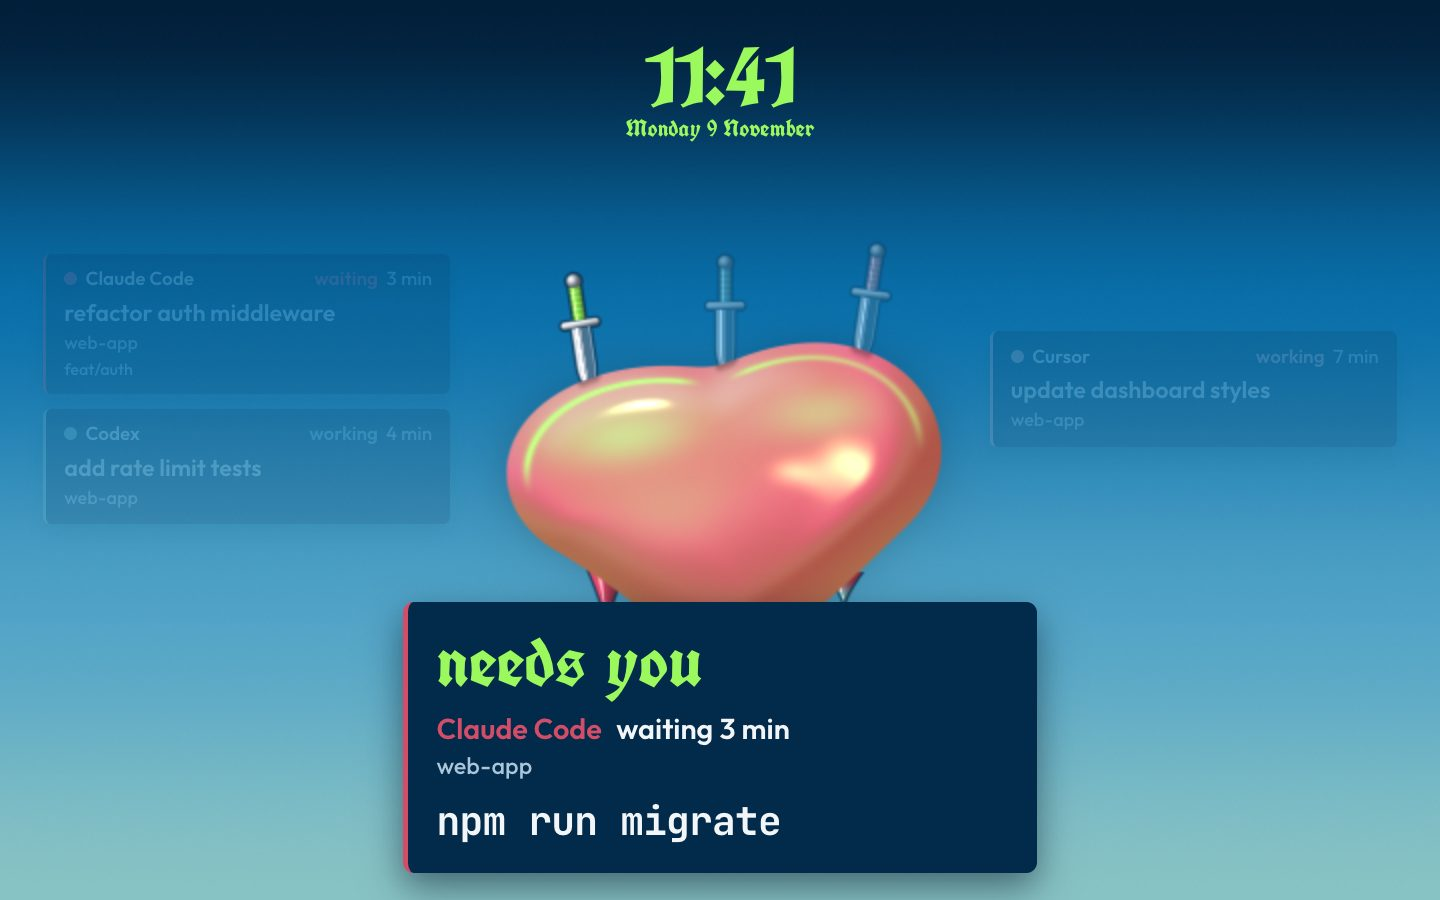
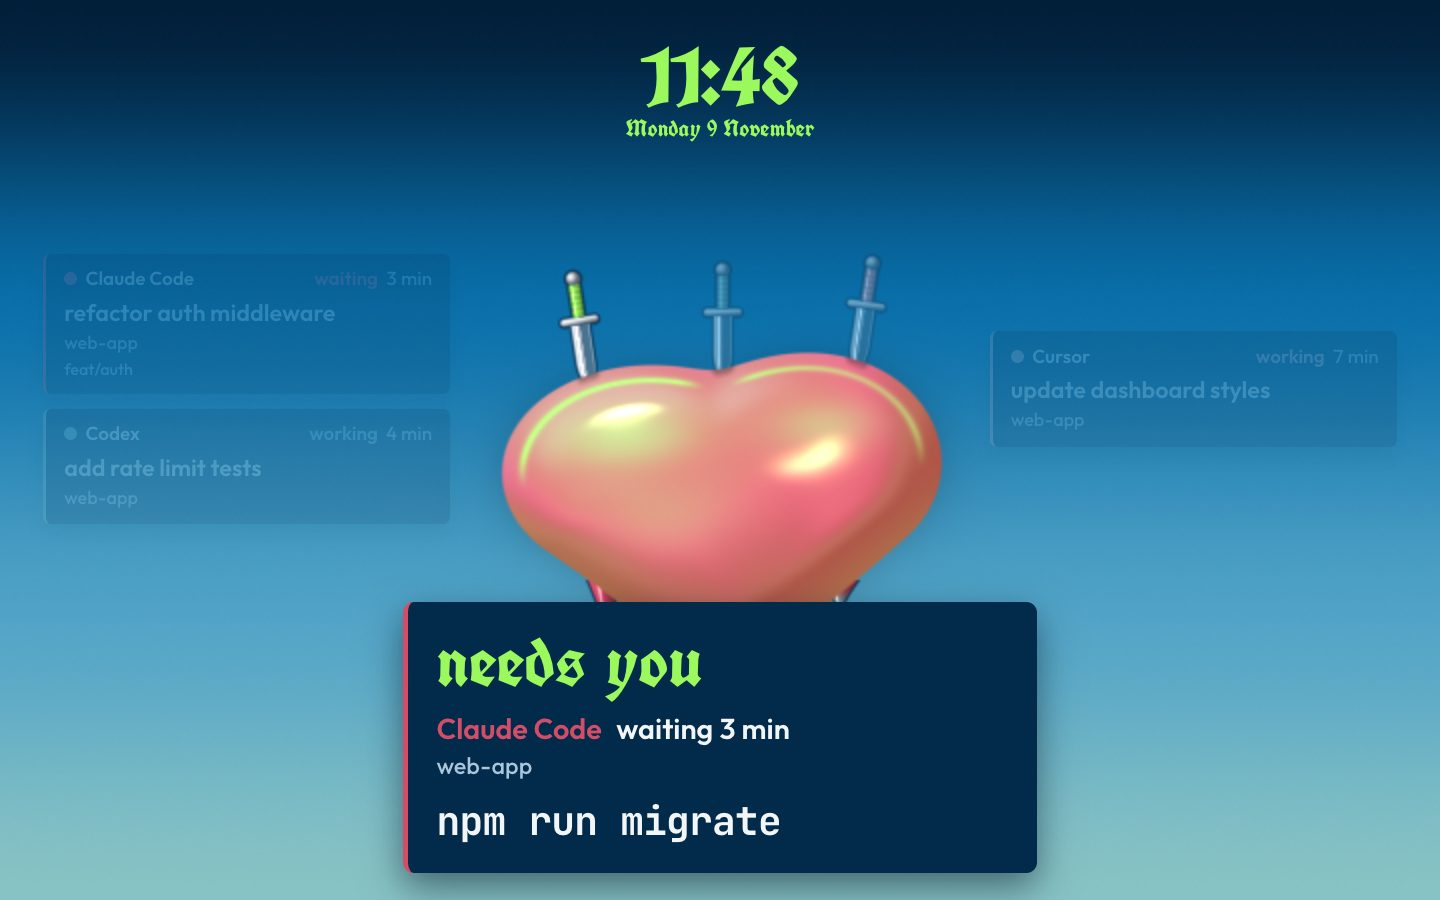
fix(favourite): calmer heart while an agent needs you

diff --git a/themes/favourite/stavgayer.favourite-ground/index.js b/themes/favourite/stavgayer.favourite-ground/index.js
@@ -189,6 +189,7 @@
     swells: [
       [0.06, 2.3, -1.8, 0.47, 0.7],
     ],
+    call: 0.5, // the share of the outline's wobble left while an agent waits, so the heart never swells into a bun
     calm: [0.25, -0.34, 0.05], // near the point the wobble shrinks to this share, from y = -0.34 up to 0.05, so the point stays a point
     still: 0, // the moment shown with "Reduce motion" (set below: the calmest moment)
   };
@@ -283,9 +284,10 @@
     return o;
   }
 
-  // How far the wobble moves the heart at (x, y) at moment t (seconds), as [x, y]:
-  // the same sums as wobble() in the shader.
-  function wobbleAt(x, y, t) {
+  // How far the wobble moves the heart at (x, y) at moment t (seconds), as [x, y],
+  // scaled by `amount` (1 unless given; less while an agent waits): the same sums
+  // as wobble() in the shader.
+  function wobbleAt(x, y, t, amount) {
     var o = wavesAt(WOBBLE.waves, x, y, t, [0, 0]);
     var mx = x + o[0], my = y + o[1]; // where the second layer is read
     wavesAt(WOBBLE.flow, mx, my, t, o);
@@ -296,6 +298,7 @@
     });
     var c = WOBBLE.calm, k = Math.min(1, Math.max(0, (y - c[1]) / (c[2] - c[1])));
     var calm = c[0] + (1 - c[0]) * k * k * (3 - 2 * k); // a smoothstep, as in the shader
+    calm *= amount === undefined ? 1 : amount;
     return [o[0] * calm, o[1] * calm];
   }
 
@@ -317,24 +320,24 @@
   })();
 
   // The moving heart's distance at (x, y), as the shader draws it at moment t.
-  function fieldAt(x, y, t) {
-    var o = wobbleAt(x, y, t);
+  function fieldAt(x, y, t, amount) {
+    var o = wobbleAt(x, y, t, amount);
     return heartField(x - o[0], y - o[1]);
   }
 
   // Where the moving heart's edge crosses the line at x, between y = 0 (inside)
   // and y = `to` (outside), found by halving: the daggers, the spikes and the drip
   // stand on exactly the edge the shader draws.
-  function crossing(x, to, t) {
+  function crossing(x, to, t, amount) {
     var inside = 0, outside = to;
     for (var i = 0; i < 22; i++) {
       var y = 0.5 * (inside + outside);
-      if (fieldAt(x, y, t) < 0) inside = y; else outside = y;
+      if (fieldAt(x, y, t, amount) < 0) inside = y; else outside = y;
     }
     return 0.5 * (inside + outside);
   }
-  function edgeAt(x, t) { return crossing(x, 0.6, t); } // the top edge above x
-  function bottomAt(x, t) { return crossing(x, -0.6, t); } // the bottom edge under x
+  function edgeAt(x, t, amount) { return crossing(x, 0.6, t, amount); } // the top edge above x
+  function bottomAt(x, t, amount) { return crossing(x, -0.6, t, amount); } // the bottom edge under x
 
   // A value that eases to a new goal over a given time, read at any moment.
   function tween(value) {
@@ -374,6 +377,7 @@
     "uniform vec3 uSkyTop;   // the top colour of the sky",
     "uniform float uLime;    // 0 to 1: the lime light that floods the heart's reflections while an agent waits",
     "uniform float uWobble;  // the wobble's clock, seconds (stands still with Reduce motion)",
+    "uniform float uWobbleAmount; // the share of the outline's wobble: 1, less while an agent waits",
     "uniform vec4 uDagPose[" + DAGGER_SLOTS + "];   // the tip, and the way the blade points up",
     "uniform vec4 uDagLook[" + DAGGER_SLOTS + "];   // opacity (0: no dagger), glint (below 0: none), lime, dim",
     "uniform vec4 uDagHandle[" + DAGGER_SLOTS + "]; // the handle's agent colour, and 1 while it is stuck in the heart",
@@ -420,7 +424,7 @@
   ], WOBBLE.flow.map(function (w) { return glslWave(w, "m"); }), WOBBLE.swells.map(function (w) {
     return "  o += p * " + glsl(w[0]) + " * sin(" + glsl(w[1]) + " * m.x + " + glsl(w[2]) + " * m.y + " + glsl(w[3]) + " * uWobble + " + glsl(w[4]) + ");";
   }), [
-    "  return o * mix(" + glsl(WOBBLE.calm[0]) + ", 1.0, smoothstep(" + glsl(WOBBLE.calm[1]) + ", " + glsl(WOBBLE.calm[2]) + ", p.y));",
+    "  return o * uWobbleAmount * mix(" + glsl(WOBBLE.calm[0]) + ", 1.0, smoothstep(" + glsl(WOBBLE.calm[1]) + ", " + glsl(WOBBLE.calm[2]) + ", p.y));",
     "}",
     "float body(vec2 p) { return heart(p - wobble(p)); }",
     // The liquid's surface flow: cheap value noise in two octaves, warped by
@@ -601,7 +605,7 @@
     "}",
   ]).join("\n");
 
-  var UNIFORMS = ["uRes", "uHeart", "uSkyTop", "uLime", "uWobble", "uDagPose", "uDagLook", "uDagHandle", "uLine", "uSpike", "uSpikeTint", "uDrip", "uDripAt"];
+  var UNIFORMS = ["uRes", "uHeart", "uSkyTop", "uLime", "uWobble", "uWobbleAmount", "uDagPose", "uDagLook", "uDagHandle", "uLine", "uSpike", "uSpikeTint", "uDrip", "uDripAt"];
 
   function compile(gl, type, source) {
     var shader = gl.createShader(type);
@@ -680,7 +684,7 @@
     function leaveMs() { return reduce.matches ? FADE_MS : FALL_MS; }
 
     // One dagger this moment: its tip and direction, how it looks, and whether it is stuck.
-    function placeDagger(dagger, nowMs, slot, t) {
+    function placeDagger(dagger, nowMs, slot, t, amount) {
       var still = reduce.matches, x = dagger.x.at(nowMs), lean = x * DAGGER.lean;
       var depth = depthOf((dagger.endMs === null ? nowMs : dagger.endMs) - dagger.startedMs);
       var under = DAGGER.stuck + depth * (DAGGER.blade / 3 - DAGGER.stuck); // the blade inside the heart: a third at full depth
@@ -704,7 +708,7 @@
       }
       // The blade goes in at the edge above its slot; it tumbles around its balance point.
       var reach = rise - under + DAGGER.middle;
-      var mx = x + Math.sin(lean) * reach + drift, my = edgeAt(x, t) + Math.cos(lean) * reach - drop;
+      var mx = x + Math.sin(lean) * reach + drift, my = edgeAt(x, t, amount) + Math.cos(lean) * reach - drop;
       var o = slot * 4, upX = Math.sin(lean + tumble), upY = Math.cos(lean + tumble);
       var glint = (nowMs - dagger.glintMs) / GLINT_MS;
       dagPose.set([mx - upX * DAGGER.middle, my - upY * DAGGER.middle, upX, upY], o);
@@ -712,11 +716,11 @@
       dagHandle.set([dagger.colour[0], dagger.colour[1], dagger.colour[2], stuck], o);
     }
 
-    function placeDaggers(nowMs, t) {
+    function placeDaggers(nowMs, t, amount) {
       var wait = leaveMs();
       daggers = daggers.filter(function (dagger) { return dagger.leftMs === null || nowMs - dagger.leftMs < wait; });
       dagLook.fill(0);
-      daggers.slice(0, DAGGER_SLOTS).forEach(function (dagger, slot) { placeDagger(dagger, nowMs, slot, t); });
+      daggers.slice(0, DAGGER_SLOTS).forEach(function (dagger, slot) { placeDagger(dagger, nowMs, slot, t, amount); });
     }
 
     function daggersMoving(nowMs) {
@@ -741,17 +745,17 @@
       });
     }
 
-    function placeSpikes(t) {
+    function placeSpikes(t, amount) {
       for (var o = 0; o < spikeShape.length; o += 4) {
-        if (spikeShape[o + 2] > 0) spikeShape[o + 1] = bottomAt(spikeShape[o], t) + SPIKE.inset;
+        if (spikeShape[o + 2] > 0) spikeShape[o + 1] = bottomAt(spikeShape[o], t, amount) + SPIKE.inset;
       }
     }
 
     // Where the drip leaves the heart: just inside its bottom point, which the
     // wobble moves a little to the side.
-    function dripRoot(t) {
-      var x = wobbleAt(0, bottomAt(0, t), t)[0];
-      return [x, bottomAt(x, t) + 0.015];
+    function dripRoot(t, amount) {
+      var x = wobbleAt(0, bottomAt(0, t, amount), t, amount)[0];
+      return [x, bottomAt(x, t, amount) + 0.015];
     }
 
     // The wobble's clock in seconds: frozen at one calm moment with "Reduce motion".
@@ -807,7 +811,10 @@
     }
 
     function render(nowMs, drip) {
-      var at = pose(nowMs), deep = skyTop.at(nowMs), t = wobbleClock(nowMs), root = dripRoot(t);
+      var at = pose(nowMs), deep = skyTop.at(nowMs), t = wobbleClock(nowMs);
+      // While an agent waits the outline calms with the same ease as the sky and
+      // the lime; the surface light keeps flowing.
+      var amount = 1 - (1 - WOBBLE.call) * deep, root = dripRoot(t, amount);
       gl.viewport(0, 0, canvas.width, canvas.height);
       gl.uniform2f(uniforms.uRes, canvas.width, canvas.height);
       gl.uniform3f(uniforms.uHeart, at.x, at.y, at.side);
@@ -817,8 +824,9 @@
         REST_TOP[2] + (CALL_TOP[2] - REST_TOP[2]) * deep);
       gl.uniform1f(uniforms.uLime, deep);
       gl.uniform1f(uniforms.uWobble, t);
-      placeDaggers(nowMs, t);
-      placeSpikes(t);
+      gl.uniform1f(uniforms.uWobbleAmount, amount);
+      placeDaggers(nowMs, t, amount);
+      placeSpikes(t, amount);
       gl.uniform4fv(uniforms.uDagPose, dagPose);
       gl.uniform4fv(uniforms.uDagLook, dagLook);
       gl.uniform4fv(uniforms.uDagHandle, dagHandle);

diff --git a/themes/favourite/README.md b/themes/favourite/README.md
@@ -25,7 +25,7 @@ Each agent owns one colour from the cover: Claude red `#d34d68`, Codex sea green
 ## Motion
 
 - The heart has the shape of the Favourite cover's heart: wide round lobes, a shallow dip between them, and sides that taper to a soft point. It is wider than it is tall. It looks like thick, glossy pink liquid. Its pinks were measured on the Favourite cover and the Romance album heart: hot pink `#f96c87`, deep pink `#d34663` and dark red `#b72342` away from the light, light pink `#feb2d7` where the light falls, and a touch of magenta `#e878bc` at the edge. The darker parts softly mirror the blue sky, like liquid chrome. Soft, broad highlights sit on the lobes, small sharp white glints catch the light, and one thin, soft line of light follows the top edge.
-- The heart is liquid. Its outline flows and bulges like a blob of liquid: slow waves that feed into other waves, taking 6 to 14 seconds each and moving the edge by about 5 to 8% of the heart's size, less near the point so the point stays a point. Over a few seconds you see bulges travel across it. The highlights and the glints flow with the surface, and a slow swirl of noise moves the light over it. The daggers, the spikes and the drip stay on the moving edge. The drip is a thick pink drop that stretches from the point. The heart also breathes: a very slow swell of about 1.5% every 8 seconds.
+- The heart is liquid. Its outline flows and bulges like a blob of liquid: slow waves that feed into other waves, taking 6 to 14 seconds each and moving the edge by about 5 to 8% of the heart's size, less near the point so the point stays a point. Over a few seconds you see bulges travel across it. The highlights and the glints flow with the surface, and a slow swirl of noise moves the light over it. While an agent needs you, the outline moves half as much, easing in and out with the lime, so the heart keeps its lobes and dip; the light keeps flowing. The daggers, the spikes and the drip stay on the moving edge. The drip is a thick pink drop that stretches from the point. The heart also breathes: a very slow swell of about 1.5% every 8 seconds.
 - The whole picture drifts a few pixels over minutes, so no pixel stays lit in one place. Option `drift` sets the minutes for one drift (4 by default).
 - One move for each event. A new task stabs a dagger in with one short move. A finished task glints once. When an agent needs you, lime floods the heart's highlights and the sky goes deep blue, both over about a second. Nothing pulses.
 - The background is one WebGL shader. It draws at half size (option `scale`) and 12 frames a second (option `fps`, at most 30), and it starts again on its own if the graphics card resets.
